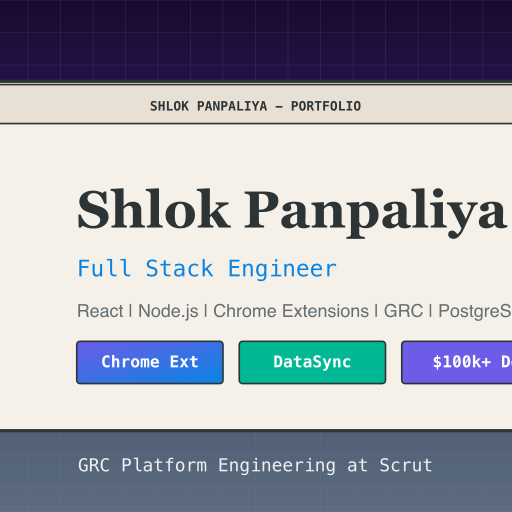
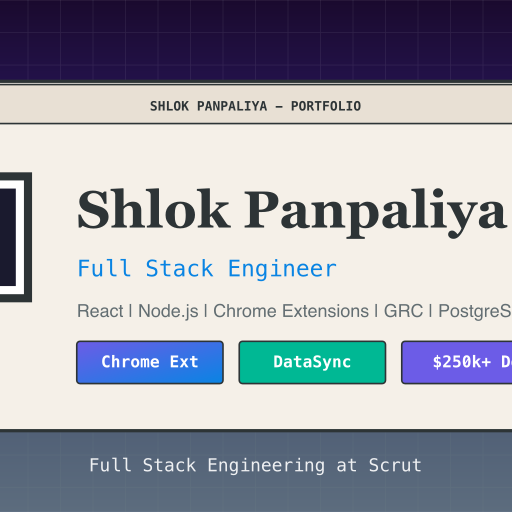
updated

Changed region(s): [[0.1562, 0.875, 0.8438, 0.9375], [0.0, 0.3125, 0.0625, 0.5938], [0.8438, 0.6875, 0.9062, 0.7188]]

diff --git a/index.html b/index.html
@@ -3,10 +3,10 @@
   <head>
     <meta charset="UTF-8" />
     <meta name="viewport" content="width=device-width, initial-scale=1.0" />
-    <title>Shlok Panpaliya | Software Engineer (Platform + Full Stack)</title>
+    <title>Shlok Panpaliya | Full Stack Engineer</title>
     <meta
       name="description"
-      content="Shlok Panpaliya — Software Engineer (Platform + Full Stack) at Scrut Automation. Queue-driven ETL, Postgres graph modeling, Chrome extensions, React, Node.js."
+      content="Shlok Panpaliya — Full Stack Engineer at Scrut Automation. Queue-driven ETL, Postgres graph modeling, Chrome extensions, React, Node.js."
     />
     <meta name="author" content="Shlok Panpaliya" />
 
@@ -19,10 +19,10 @@
     <meta property="og:type" content="website" />
     <meta property="og:url" content="/" />
     <meta property="og:site_name" content="Shlok Panpaliya Portfolio" />
-    <meta property="og:title" content="Shlok Panpaliya | Software Engineer (Platform + Full Stack)" />
+    <meta property="og:title" content="Shlok Panpaliya | Full Stack Engineer" />
     <meta
       property="og:description"
-      content="Platform + Full Stack engineering at Scrut: queue-driven ETL, Postgres graph modeling, Chrome extension automation, and enterprise GRC modules."
+      content="Full Stack engineering at Scrut: queue-driven ETL, Postgres graph modeling, Chrome extension automation, and enterprise GRC modules."
     />
     <meta property="og:image" content="/og-image.png" />
     <meta property="og:image:width" content="1200" />
@@ -31,10 +31,10 @@
 
     <!-- Twitter / X -->
     <meta name="twitter:card" content="summary_large_image" />
-    <meta name="twitter:title" content="Shlok Panpaliya | Software Engineer (Platform + Full Stack)" />
+    <meta name="twitter:title" content="Shlok Panpaliya | Full Stack Engineer" />
     <meta
       name="twitter:description"
-      content="Platform + Full Stack engineering at Scrut: ETL, Postgres graphs, Chrome extensions, and enterprise GRC modules."
+      content="Full Stack engineering at Scrut: ETL, Postgres graphs, Chrome extensions, and enterprise GRC modules."
     />
     <meta name="twitter:image" content="/og-image.png" />
   </head>

diff --git a/src/data/portfolio.ts b/src/data/portfolio.ts
@@ -24,8 +24,8 @@ export interface Experience {
 
 export const profile = {
   name: "Shlok Panpaliya",
-  title: "Software Engineer (Platform + Full Stack)",
-  tagline: "Platform Engineering · ETL · Postgres Graph Modeling · React · Node.js · GRC",
+  title: "Full Stack Engineer",
+  tagline: "React · Node.js · PostgreSQL · ETL · Chrome Extensions · GRC",
   email: "shlokp762@gmail.com",
   phone: "+91 9359431950",
   linkedin: "https://www.linkedin.com/in/shlokp762",
